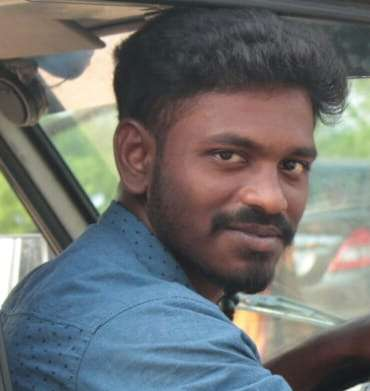
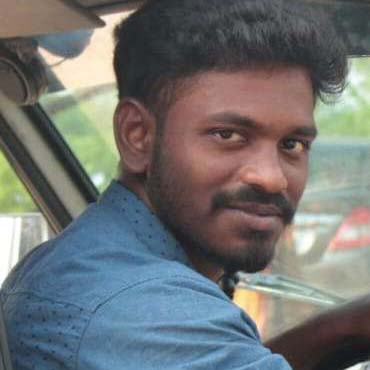
team mod 1 complete

diff --git a/team.html b/team.html
@@ -70,7 +70,7 @@
                <div class="collapse navbar-collapse" id="navbarNav">
                          <ul class="navbar-nav ml-auto mt-3 text-right">
                              <li class="nav-item active">
-                                 <a class="nav-link" href="#">Home <span class="sr-only">(current)</span></a>
+                                 <a class="nav-link" href="/">Home <span class="sr-only">(current)</span></a>
                              </li>
                              <li class="nav-item">
                                  <a class="nav-link" href="services.html">Services</a>
@@ -98,15 +98,15 @@
                <p class="text-white mt-4">Home / Our Team</p>
           </div>
      </div>
-     <div class="main-body py-5">
-          <div class="w-80 py-5 team">
+     <div class="main-body pb-5 pt-4">
+          <div class="w-80 pb-5 team">
                <div class="row">
-                    <div class="col-sm-12 col-lg-6 mt-5 border-top border-bottom">
+                    <div class="col-sm-12 col-md-12 col-lg-6 mt-5">
                          <div class="row no-gutters">
-                              <div class="col-4">
-                                   <img src="assets/img/t1.jpg" class="card-img-top">
+                              <div class="col-3">
+                                   <img src="assets/img/t1.jpg" class="card-img-top rounded-circle mt-3">
                               </div>
-                              <div class="col-8 p-3 pl-5">
+                              <div class="col-9 p-3 pl-5">
                                    <h2 class="text-uppercase">Arveen Raj</h2>
                                    <p class="mt-4 text-primary">
                                         <b>CEO</b>
@@ -135,12 +135,12 @@
                               </div>
                          </div>
                     </div>
-                    <div class="col-sm-12 col-lg-6 pl-2 mt-5 border-top border-bottom">
+                    <div class="col-sm-12 col-lg-6 pl-2 mt-5">
                          <div class="row no-gutters">
-                              <div class="col-4">
-                                   <img src="assets/img/t2.jpg" class="card-img-top">
+                              <div class="col-3">
+                                   <img src="assets/img/t2.jpg" class="card-img-top rounded-circle mt-3">
                               </div>
-                              <div class="col-8 p-3 pl-5">
+                              <div class="col-9 p-3 pl-5">
                                    <h2 class="text-uppercase">A S RANJITH</h2>
                                    <p class="mt-4 text-primary">
                                         <b>Project Manager</b>
@@ -171,12 +171,12 @@
                     </div>
                </div>
                <div class="row no-gutters">
-                    <div class="col-sm-12 col-lg-6 mt-5 border-top border-bottom">
+                    <div class="col-sm-12 col-lg-6 mt-5">
                          <div class="row no-gutters">
-                              <div class="col-4">
-                                   <img src="assets/img/t3.jpg" class="card-img-top">
+                              <div class="col-3">
+                                   <img src="assets/img/t3.jpg" class="card-img-top rounded-circle mt-3">
                               </div>
-                              <div class="col-8 p-3 pl-5">
+                              <div class="col-9 p-3 pl-5">
                                    <h2 class="text-uppercase">NARENDIRAN</h2>
                                    <p class="mt-4 text-primary">
                                         <b>Senior UAV Survey Engineer & Drone Pilot</b>
@@ -205,12 +205,12 @@
                               </div>
                          </div>
                     </div>
-                    <div class="col-sm-12 col-lg-6 pl-2 mt-5 border-top border-bottom">
+                    <div class="col-sm-12 col-lg-6 pl-2 mt-5">
                          <div class="row no-gutters">
-                              <div class="col-4">
-                                   <img src="assets/img/t4.jpg" class="card-img-top">
+                              <div class="col-3">
+                                   <img src="assets/img/t4.jpg" class="card-img-top rounded-circle mt-3">
                               </div>
-                              <div class="col-8 p-3 pl-5">
+                              <div class="col-9 p-3 pl-5">
                                    <h2 class="text-uppercase">AKHIL</h2>
                                    <p class="mt-4 text-primary">
                                         <b>Head R & D , Drone mechanic</b>
@@ -219,8 +219,7 @@
                                         As the R&D head, accountable manager and Drone Mechanic, solely responsible for
                                         all functions. These include operations, maintenance, administration and
                                         business. Also demonstrated history of working in the Aerial Vehicle
-                                        Engineering. An accomplished Educator at Vimanam Flying Acadamy with excellent
-                                        communication skills. Educated with B.E mechanical engineering, Kerala.
+                                        Engineering. Educated with B.E mechanical engineering, Kerala.
                                    </p>
                                    <hr class="bg-dark">
                                    <div class="social-media">
@@ -240,12 +239,12 @@
                               </div>
                          </div>
                     </div>
-                    <div class="col-sm-12 col-lg-6 pl-2 mt-5 border-top border-bottom">
+                    <div class="col-sm-12 col-lg-6 pl-2 mt-5">
                          <div class="row no-gutters">
-                              <div class="col-4">
-                                   <img src="assets/img/t5.jpg" class="card-img-top">
+                              <div class="col-3">
+                                   <img src="assets/img/t5.jpg" class="card-img-top rounded-circle mt-3">
                               </div>
-                              <div class="col-8 p-3 pl-5">
+                              <div class="col-9 p-3 pl-5">
                                    <h2 class="text-uppercase">Dr.Ganesh Subramanian</h2>
                                    <p class="mt-4 text-primary">
                                         <b>MENTOR-R&D</b>

diff --git a/index.html b/index.html
@@ -78,7 +78,7 @@
             <div class="collapse navbar-collapse" id="navbarNav">
                 <ul class="navbar-nav ml-auto mt-3 text-right">
                     <li class="nav-item active">
-                        <a class="nav-link" href="#">Home <span class="sr-only">(current)</span></a>
+                        <a class="nav-link" href="/">Home <span class="sr-only">(current)</span></a>
                     </li>
                     <li class="nav-item">
                         <a class="nav-link" href="services.html">Services</a>
@@ -407,15 +407,15 @@
                     </div>
                 </div>
                 <div class="ninp">
-                    <h3 class="colored">DRONE ENGINEERING & PILOT TRAINING COURSE</h3>
+                    <h3 class="colored">BE THE FIRST ONE TO KNOW</h3>
+                    <p class="mt-4 mb-4">Sign up for our special offers and referral program.</p>
+                    <input class="form-control w-75" type="text">
+                    <a href="" class="btn ghostbtn-green"><span class="">SUBSCRIBE</span></a>
+                    <h3 class="colored mt-5">DRONE ENGINEERING & PILOT TRAINING COURSE</h3>
                     <p class="mt-4">We offer training on how to operate the latest technology drones and how to pilot
                         them, right from the basic level. With our drone camera technology, we will teach them how to
                         make the best use of aerial photography along with filming using the equipment.</p>
                     <a href="" class="btn ghostbtn-green mt-2"><span class="">LEARN MORE</span></a>
-                    <h3 class="colored mt-5">BE THE FIRST ONE TO KNOW</h3>
-                    <p class="mt-4 mb-4">Sign up for our special offers and referral program.</p>
-                    <input class="form-control w-75" type="text">
-                    <a href="" class="btn ghostbtn-green"><span class="">SUBSCRIBE</span></a>
                 </div>
             </div>
         </div>

diff --git a/about.html b/about.html
@@ -70,7 +70,7 @@
                <div class="collapse navbar-collapse" id="navbarNav">
                          <ul class="navbar-nav ml-auto mt-3 text-right">
                              <li class="nav-item active">
-                                 <a class="nav-link" href="#">Home <span class="sr-only">(current)</span></a>
+                                 <a class="nav-link" href="/">Home <span class="sr-only">(current)</span></a>
                              </li>
                              <li class="nav-item">
                                  <a class="nav-link" href="services.html">Services</a>

diff --git a/courses.html b/courses.html
@@ -70,7 +70,7 @@
                <div class="collapse navbar-collapse" id="navbarNav">
                          <ul class="navbar-nav ml-auto mt-3 text-right">
                              <li class="nav-item active">
-                                 <a class="nav-link" href="#">Home <span class="sr-only">(current)</span></a>
+                                 <a class="nav-link" href="/">Home <span class="sr-only">(current)</span></a>
                              </li>
                              <li class="nav-item">
                                  <a class="nav-link" href="services.html">Services</a>

diff --git a/services.html b/services.html
@@ -70,7 +70,7 @@
                <div class="collapse navbar-collapse" id="navbarNav">
                          <ul class="navbar-nav ml-auto mt-3 text-right">
                              <li class="nav-item active">
-                                 <a class="nav-link" href="#">Home <span class="sr-only">(current)</span></a>
+                                 <a class="nav-link" href="/">Home <span class="sr-only">(current)</span></a>
                              </li>
                              <li class="nav-item">
                                  <a class="nav-link" href="services.html">Services</a>

diff --git a/blog.html b/blog.html
@@ -70,7 +70,7 @@
                <div class="collapse navbar-collapse" id="navbarNav">
                     <ul class="navbar-nav ml-auto mt-3 text-right">
                          <li class="nav-item active">
-                              <a class="nav-link" href="#">Home <span class="sr-only">(current)</span></a>
+                              <a class="nav-link" href="/">Home <span class="sr-only">(current)</span></a>
                          </li>
                          <li class="nav-item">
                               <a class="nav-link" href="services.html">Services</a>

diff --git a/faq.html b/faq.html
@@ -70,7 +70,7 @@
             <div class="collapse navbar-collapse" id="navbarNav">
                     <ul class="navbar-nav ml-auto mt-3 text-right">
                         <li class="nav-item active">
-                            <a class="nav-link" href="#">Home <span class="sr-only">(current)</span></a>
+                            <a class="nav-link" href="/">Home <span class="sr-only">(current)</span></a>
                         </li>
                         <li class="nav-item">
                             <a class="nav-link" href="services.html">Services</a>

diff --git a/gallery.html b/gallery.html
@@ -74,7 +74,7 @@
             <div class="collapse navbar-collapse" id="navbarNav">
                     <ul class="navbar-nav ml-auto mt-3 text-right">
                         <li class="nav-item active">
-                            <a class="nav-link" href="#">Home <span class="sr-only">(current)</span></a>
+                            <a class="nav-link" href="/">Home <span class="sr-only">(current)</span></a>
                         </li>
                         <li class="nav-item">
                             <a class="nav-link" href="services.html">Services</a>

diff --git a/assets/css/responsive.css b/assets/css/responsive.css
@@ -18,11 +18,7 @@
     width: 35.1rem;
     border-radius: 7rem;
     top: -2.7rem;
-    left: -15.4rem; }
-  .team img {
-    height: 230px;
-    width: 100%;
-    object-fit: cover; } }
+    left: -15.4rem; } }
 
 @media (max-width: 1440px) {
   .w-80 {

diff --git a/assets/scss/responsive.scss b/assets/scss/responsive.scss
@@ -28,13 +28,6 @@
         top: -2.7rem;
         left: -15.4rem;
     }
-    .team{
-        img{
-            height: 230px; 
-            width: 100%; 
-            object-fit: cover;
-        } 
-    }
  }
 
  @media (max-width: 1440px) { 

diff --git a/assets/scss/style.scss b/assets/scss/style.scss
@@ -478,9 +478,9 @@ hr{
     }
 }
 .team{
-    img{
-        height: 360px; 
-        width: 100%; 
+    img{ 
+        width: 100%;  
+        height: auto;
         object-fit: cover;
     } 
 }

diff --git a/assets/css/style.css b/assets/css/style.css
@@ -422,6 +422,6 @@ hr {
     width: auto; }
 
 .team img {
-  height: 360px;
   width: 100%;
+  height: auto;
   object-fit: cover; }
